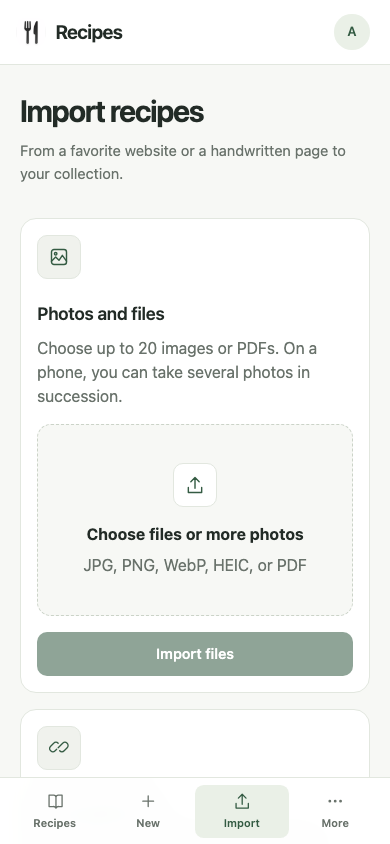
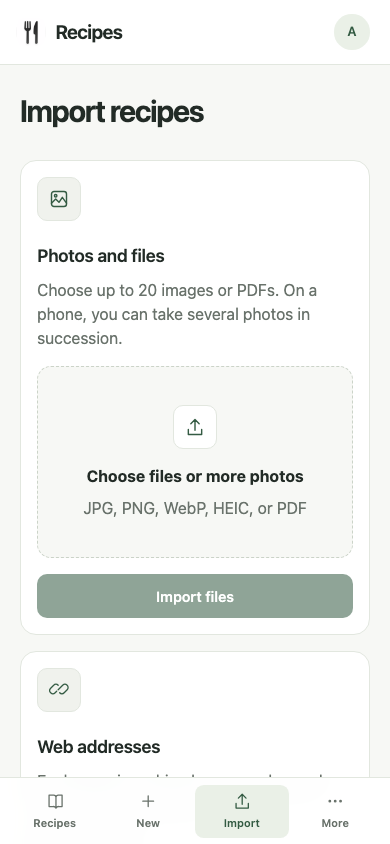
Remove page subtitles and compact recipe favorite controls

diff --git a/app/static/css/app.css b/app/static/css/app.css
@@ -74,7 +74,6 @@ hr { border: 0; border-top: 1px solid var(--line); }
 
 /* Shared visual language */
 .ui-icon { display: inline-block; width: 1.25rem; height: 1.25rem; flex: 0 0 auto; vertical-align: middle; }
-.page-intro { max-width: 54ch; margin: .65rem 0 0; color: var(--muted); font-size: .92rem; line-height: 1.6; }
 .page-heading > div { min-width: 0; }
 .results-summary { margin: 0 0 var(--space-4); color: var(--muted); font-size: .76rem; }
 .recipe-search__toolbar { display: flex; flex-wrap: wrap; align-items: center; justify-content: space-between; gap: var(--space-3); }
@@ -189,7 +188,7 @@ dialog::backdrop { background: rgb(0 0 0 / .4); backdrop-filter: blur(2px); }
 .login-card { box-shadow: var(--shadow-float); position: relative; width: min(100%, 26rem); padding: clamp(1.5rem, 6vw, 2.5rem); border: 1px solid var(--line); border-radius: var(--radius-lg); background: var(--surface); }
 .login-card__intro { margin: var(--space-7) 0 var(--space-6); }
 .login-card h1 { font-size: clamp(1.6rem, 6vw, 2.1rem); }
-.login-card__intro > p:last-child, .login-card__help { color: var(--muted); }
+.login-card__help { color: var(--muted); }
 .login-card__help { margin: var(--space-5) 0 0; font-size: .8rem; }
 .stack { display: grid; gap: var(--space-4); }
 
@@ -237,12 +236,14 @@ dialog::backdrop { background: rgb(0 0 0 / .4); backdrop-filter: blur(2px); }
 .recipe-kind-label--cooking { border-color: var(--cooking-line); background: var(--cooking-soft); color: var(--cooking); }
 .recipe-kind-label--baking { border-color: var(--baking-line); background: var(--baking-soft); color: var(--baking); }
 .recipe-card__kind { position: absolute; z-index: 2; top: .75rem; left: .75rem; box-shadow: none; }
-.favorite-toggle { position: absolute; top: .75rem; right: .75rem; z-index: 2; display: grid; width: 2.75rem; height: 2.75rem; place-items: center; padding: 0; border: 1px solid rgb(255 255 255 / .78); border-radius: 50%; background: rgb(255 255 255 / .92); color: #57534e; box-shadow: 0 2px 6px rgb(34 43 38 / .06); backdrop-filter: blur(8px); transition: color .15s ease, background-color .15s ease, border-color .15s ease, transform .15s ease; }
+.favorite-toggle { position: absolute; top: .75rem; right: .75rem; z-index: 2; display: grid; width: 2rem; height: 2rem; place-items: center; padding: 0; border: 1px solid rgb(255 255 255 / .78); border-radius: 50%; background: rgb(255 255 255 / .92); color: #57534e; box-shadow: 0 2px 6px rgb(34 43 38 / .06); backdrop-filter: blur(8px); transition: color .15s ease, background-color .15s ease, border-color .15s ease, transform .15s ease; }
+/* Keep a 44px hit area around the compact 32px favorite control. */
+.favorite-toggle::after { content: ""; position: absolute; inset: -.375rem; border-radius: 50%; }
 .favorite-toggle:hover { border-color: white; background: white; color: var(--ink); transform: translateY(-1px); }
 .favorite-toggle:disabled { cursor: wait; opacity: .72; }
 .favorite-toggle[aria-pressed="true"] { border-color: var(--cooking-line); background: var(--accent-soft); color: var(--accent); }
 .favorite-toggle[aria-pressed="true"]:hover { border-color: var(--accent); background: var(--accent-soft); color: var(--accent); }
-.favorite-toggle svg { width: 1.3rem; height: 1.3rem; fill: transparent; stroke: currentColor; stroke-linecap: round; stroke-linejoin: round; stroke-width: 1.8; transition: fill .15s ease, transform .15s ease; }
+.favorite-toggle svg { width: 1rem; height: 1rem; fill: transparent; stroke: currentColor; stroke-linecap: round; stroke-linejoin: round; stroke-width: 1.8; transition: fill .15s ease, transform .15s ease; }
 .favorite-toggle[aria-pressed="true"] svg { fill: currentColor; }
 .favorite-toggle:not(:disabled):active svg { transform: scale(.9); }
 .image-placeholder { display: grid; width: 100%; height: 100%; place-items: center; align-content: center; gap: .45rem; color: var(--muted); font-size: .75rem; }

diff --git a/app/templates/categories.html b/app/templates/categories.html
@@ -1,5 +1,5 @@
 {% extends "base.html" %}{% set page_title = t('categories.title') ~ ' · ' ~ t('recipes.title') %}{% block page_id %}categories{% endblock %}
-{% block content %}<section class="page-heading page-heading--with-action"><div><h1>{{ t('categories.title') }}</h1><p class="page-intro">{{ t("design.categories_intro") }}</p></div><button class="button button--primary" type="button" data-new-category>{{ t('categories.new') }}</button></section>
+{% block content %}<section class="page-heading page-heading--with-action"><div><h1>{{ t('categories.title') }}</h1></div><button class="button button--primary" type="button" data-new-category>{{ t('categories.new') }}</button></section>
 <div class="category-manager" data-category-manager><aside class="category-tree-panel"><label class="field"><span>{{ t('recipes.search_categories') }}</span><input type="search" data-category-filter placeholder="{{ t('categories.search_placeholder') }}"></label><div class="category-tree" data-category-tree role="tree">{% for category in categories %}<button type="button" role="treeitem" aria-level="{{ category.path.split(' › ')|length }}" class="category-node depth-{{ [category.path.split(' › ')|length - 1, 5]|min }}" data-category-id="{{ category.id }}" data-parent-id="{{ category.parent_id or '' }}" data-name="{{ category.name }}" data-path="{{ category.path }}" data-position="{{ category.position }}" data-origin="{{ category.origin }}" data-usage="{{ category.recipe_links|length }}" data-children="{{ category.children|length }}"><span>{{ category.name }}<span class="sr-only"> – {{ t('categories.path', path=category.path) }}</span></span><small>{{ category.recipe_links|length }} {{ tp('recipe.one', 'recipe.other', category.recipe_links|length) }}</small></button>{% else %}<div class="empty-inline" data-category-empty>{{ t('categories.empty') }}</div>{% endfor %}</div></aside>
 <section class="category-detail-panel" data-category-detail><div class="empty-state empty-state--compact"><div class="empty-state__mark" aria-hidden="true">{{ icon("folder") }}</div><h2>{{ t('categories.select_title') }}</h2><p>{{ t('categories.select_text') }}</p></div></section></div>
 <dialog data-category-dialog aria-labelledby="category-dialog-title"><form class="dialog-card" data-category-form><div class="dialog-card__header"><h2 id="category-dialog-title">{{ t('categories.create') }}</h2><button class="icon-button" type="button" data-dialog-close aria-label="{{ t('common.close') }}">×</button></div><input type="hidden" name="category_id"><div class="field"><label for="category-name">{{ t('common.name') }}</label><input id="category-name" name="name" maxlength="200" required></div><div class="field"><label for="category-parent">{{ t('categories.parent') }}</label><select id="category-parent" name="parent_id"><option value="">{{ t('categories.root') }}</option>{% for category in categories %}<option value="{{ category.id }}">{{ category.path }}</option>{% endfor %}</select></div><div class="dialog-actions"><button class="button button--secondary" type="button" data-dialog-close>{{ t('common.cancel') }}</button><button class="button button--primary" type="submit">{{ t('common.save') }}</button></div></form></dialog>

diff --git a/app/templates/settings/index.html b/app/templates/settings/index.html
@@ -1,5 +1,5 @@
 {% extends "base.html" %}{% set page_title = t('settings.title') ~ ' · ' ~ t('recipes.title') %}{% block page_id %}settings{% endblock %}
-{% block content %}<section class="page-heading"><h1>{{ t('settings.title') }}</h1><p class="page-intro">{{ t("design.settings_intro") }}</p></section>
+{% block content %}<section class="page-heading"><h1>{{ t('settings.title') }}</h1></section>
 <section class="settings-section" aria-labelledby="system-title"><div class="section-heading"><h2 id="system-title">{{ t('settings.system') }}</h2><button class="button button--secondary button--small" type="button" data-refresh-summary>{{ t('common.refresh') }}</button></div><dl class="system-summary" data-system-summary><div><dt>{{ t('settings.application') }}</dt><dd>{{ t('common.version') }} <span data-application-version>{{ app_version }}</span></dd></div><div><dt>{{ t('settings.database') }}</dt><dd data-database-schema>–</dd></div><div><dt>{{ t('settings.users') }}</dt><dd data-count-users>–</dd></div><div><dt>{{ t('recipes.title') }}</dt><dd data-count-recipes>–</dd></div><div><dt>{{ t('settings.comments') }}</dt><dd data-count-comments>–</dd></div><div><dt>{{ t('categories.title') }}</dt><dd data-count-categories>–</dd></div><div><dt>{{ t('settings.files') }}</dt><dd data-count-files>–</dd></div><div><dt>{{ t('settings.storage') }}</dt><dd data-storage-total>–</dd></div></dl></section>
 <section class="settings-section" aria-labelledby="backup-title"><div class="section-heading"><div><h2 id="backup-title">{{ t('settings.backup_title') }}</h2><p>{{ t('settings.backup_text') }}</p></div><button class="button button--primary" type="button" data-create-backup>{{ t('settings.create_backup') }}</button></div><div class="job-history" data-backup-jobs>{% for job in jobs %}<article class="history-card" data-maintenance-job="{{ job.id }}" data-operation="{{ job.operation }}" data-status="{{ job.status }}"><div><span class="status-badge">{{ ui_text(job.current_stage) }}</span><h3>{{ t('settings.backup') if job.operation == 'export' else t('settings.restore') }}</h3><time datetime="{{ job.created_at.isoformat() }}">{{ job.created_at|datetime_de }}</time></div><progress max="100" value="{{ job.progress }}" aria-label="{{ t('settings.progress', operation=t('settings.backup') if job.operation == 'export' else t('settings.restore')) }}">{{ job.progress }}%</progress>{% if job.error_message %}<p class="alert alert--error">{{ ui_text(job.error_message, 'error.generic') }}</p>{% endif %}{% if job.operation == 'export' and job.status == 'completed' %}<a class="button button--secondary button--small" href="/api/v1/settings/backups/{{ job.id }}/download">{{ t('common.download') }}</a>{% endif %}</article>{% else %}<p class="empty-inline">{{ t('settings.no_jobs') }}</p>{% endfor %}</div></section>
 <section class="settings-section danger-zone" aria-labelledby="restore-title">

diff --git a/app/templates/imports/index.html b/app/templates/imports/index.html
@@ -1,5 +1,5 @@
 {% extends "base.html" %}{% set page_title = t('import.title') ~ ' · ' ~ t('recipes.title') %}{% block page_id %}imports{% endblock %}
-{% block content %}<section class="page-heading"><h1>{{ t('import.title') }}</h1><p class="page-intro">{{ t("design.import_intro") }}</p></section>
+{% block content %}<section class="page-heading"><h1>{{ t('import.title') }}</h1></section>
 <div class="import-grid">
   <section class="import-card"><div class="import-card__number">{{ icon("image") }}</div><h2>{{ t('import.files_title') }}</h2><p>{{ t('import.files_text') }}</p><form data-file-import><label class="upload-zone" for="import-files"><span class="upload-zone__icon">{{ icon("upload") }}</span><strong>{{ t('import.choose_files') }}</strong><span>{{ t('import.file_formats') }}</span><input id="import-files" name="files" type="file" accept="image/*,.heic,application/pdf" multiple></label><div class="file-selection" data-file-selection aria-live="polite" hidden></div><p class="alert alert--warning" data-file-selection-message role="status" hidden></p><progress max="100" value="0" data-upload-progress aria-label="{{ t('import.upload_progress') }}" hidden>0%</progress><button class="button button--primary button--block" type="submit" disabled>{{ t('import.files_submit') }}</button></form></section>
   <section class="import-card"><div class="import-card__number">{{ icon("link") }}</div><h2>{{ t('import.urls_title') }}</h2><p>{{ t('import.urls_text') }}</p><form data-url-import><div class="field"><label class="import-card__url-label" for="import-urls">{{ t('import.urls_title') }}</label><textarea id="import-urls" rows="7" placeholder="{{ t('import.urls_placeholder') }}" required></textarea><p class="field-help">{{ t('import.urls_help') }}</p></div><button class="button button--primary button--block" type="submit">{{ t('import.urls_submit') }}</button></form></section>

diff --git a/app/templates/productivity/favorites.html b/app/templates/productivity/favorites.html
@@ -4,7 +4,7 @@
 {% set page_title = t('favorites.title') ~ ' · ' ~ t('recipes.title') %}
 {% block page_id %}favorites{% endblock %}
 {% block content %}
-<section class="page-heading page-heading--with-action"><div><h1>{{ t('favorites.title') }}</h1><p class="page-intro">{{ t("design.favorites_intro") }}</p></div><a class="button button--secondary" href="/rezepte">{{ t('favorites.all') }}</a></section>
+<section class="page-heading page-heading--with-action"><div><h1>{{ t('favorites.title') }}</h1></div><a class="button button--secondary" href="/rezepte">{{ t('favorites.all') }}</a></section>
 <nav class="recipe-kind-switch recipe-kind-switch--links" aria-label="{{ t('recipes.kind_filter') }}">
   {% for kind in ['all', 'cooking', 'baking'] %}
   <a class="recipe-kind-option recipe-kind-option--{{ kind }}" href="/favoriten{% if kind != 'all' %}?recipe_kind={{ kind }}{% endif %}" {% if (kind == 'all' and not selected_recipe_kind) or kind == selected_recipe_kind %}aria-current="page"{% endif %}>

diff --git a/app/templates/recipes/list.html b/app/templates/recipes/list.html
@@ -9,7 +9,6 @@
   <section class="page-heading page-heading--with-action recipe-search__heading">
     <div>
       <h1{% if not trash_mode|default(false) %} data-recipe-kind-heading{% endif %}>{{ t('recipes.trash_title') if trash_mode|default(false) else (t('recipes.kind.' ~ selected_recipe_kind) if selected_recipe_kind else t('recipes.title')) }}</h1>
-      {% if not trash_mode|default(false) %}<p class="page-intro">{{ t("design.recipes_intro") }}</p>{% endif %}
     </div>
   </section>
   <div class="recipe-search__toolbar">

diff --git a/app/templates/login.html b/app/templates/login.html
@@ -19,7 +19,6 @@
       <div class="brand brand--large"><img class="brand__mark" src="{{ asset('pwa/icon-192.png') }}" alt="" width="192" height="192"><span>{{ t("app.name") }}</span></div>
       <div class="login-card__intro">
         <h1 id="login-title">{{ t("login.welcome") }}</h1>
-        <p>{{ t("login.intro") }}</p>
       </div>
       {% if error %}
       <div class="alert alert--error" role="alert">{{ error }}</div>

diff --git a/app/templates/account/index.html b/app/templates/account/index.html
@@ -3,7 +3,7 @@
 {% block page_id %}account{% endblock %}
 {% block content %}
 <section class="page-heading">
-  <h1>{{ t("account.title") }}</h1><p class="page-intro">{{ t("design.account_intro") }}</p>
+  <h1>{{ t("account.title") }}</h1>
 </section>
 {% if request.query_params.get('saved') == '1' %}
 <div class="alert alert--success" role="status">{{ t("account.saved") }}</div>

diff --git a/app/templates/productivity/tags.html b/app/templates/productivity/tags.html
@@ -3,7 +3,7 @@
 {% block page_id %}tags{% endblock %}
 {% block content %}
 <section class="page-heading">
-  <h1>{{ t('tags.title') }}</h1><p class="page-intro">{{ t("design.tags_intro") }}</p>
+  <h1>{{ t('tags.title') }}</h1>
 </section>
 
 <div class="productivity-layout productivity-layout--two">

diff --git a/app/templates/notes/index.html b/app/templates/notes/index.html
@@ -4,7 +4,7 @@
 {% block page_id %}notes{% endblock %}
 {% block content %}
 <section class="page-heading notes-heading">
-  <h1>{{ t('notes.title') }}</h1><p class="page-intro">{{ t("notes.description") }}</p>
+  <h1>{{ t('notes.title') }}</h1>
 </section>
 
 <div class="notes-layout">

diff --git a/app/i18n.py b/app/i18n.py
@@ -127,7 +127,6 @@ MESSAGES: Final[dict[Locale, dict[str, str]]] = {
         "account.invalid_language": "The selected language is not supported.",
         "login.title": "Sign in",
         "login.welcome": "Welcome back",
-        "login.intro": "Sign in to open your shared recipes.",
         "login.email": "Email address",
         "login.password": "Password",
         "login.submit": "Sign in",
@@ -286,7 +285,6 @@ MESSAGES: Final[dict[Locale, dict[str, str]]] = {
         "account.invalid_language": "Die ausgewählte Sprache wird nicht unterstützt.",
         "login.title": "Anmelden",
         "login.welcome": "Willkommen zurück",
-        "login.intro": "Melde dich an, um eure gemeinsamen Rezepte zu öffnen.",
         "login.email": "E-Mail-Adresse",
         "login.password": "Passwort",
         "login.submit": "Anmelden",
@@ -445,7 +443,6 @@ MESSAGES: Final[dict[Locale, dict[str, str]]] = {
         "account.invalid_language": "不支持所选语言。",
         "login.title": "登录",
         "login.welcome": "欢迎回来",
-        "login.intro": "登录以打开共享食谱。",
         "login.email": "电子邮箱",
         "login.password": "密码",
         "login.submit": "登录",
@@ -604,7 +601,6 @@ MESSAGES: Final[dict[Locale, dict[str, str]]] = {
         "account.invalid_language": "चुनी गई भाषा समर्थित नहीं है।",
         "login.title": "साइन इन",
         "login.welcome": "वापसी पर स्वागत है",
-        "login.intro": "अपनी साझा रेसिपी खोलने के लिए साइन इन करें।",
         "login.email": "ईमेल पता",
         "login.password": "पासवर्ड",
         "login.submit": "साइन इन",
@@ -763,7 +759,6 @@ MESSAGES: Final[dict[Locale, dict[str, str]]] = {
         "account.invalid_language": "El idioma seleccionado no es compatible.",
         "login.title": "Iniciar sesión",
         "login.welcome": "Te damos la bienvenida",
-        "login.intro": "Inicia sesión para abrir las recetas compartidas.",
         "login.email": "Correo electrónico",
         "login.password": "Contraseña",
         "login.submit": "Iniciar sesión",
@@ -891,55 +886,6 @@ MESSAGES: Final[dict[Locale, dict[str, str]]] = {
 # supported locales obvious during review. The order is English, German,
 # Simplified Chinese, Hindi, Spanish.
 _UI_MESSAGE_ROWS: Final[dict[str, tuple[str, str, str, str, str]]] = {
-    "design.recipes_intro": (
-        "Good food starts here. Find something you’ll love to make.",
-        "Gutes Essen beginnt hier. Finde etwas, das du gerne kochst.",
-        "美味从这里开始，发现你想做的菜。",
-        "अच्छे खाने की शुरुआत यहाँ से। कुछ ऐसा चुनें जो बनाना आपको पसंद हो।",
-        "La buena comida empieza aquí. Encuentra algo que te apetezca preparar.",
-    ),
-    "design.favorites_intro": (
-        "The recipes you come back to, all in one place.",
-        "Deine liebsten Rezepte, alle an einem Ort.",
-        "常做的拿手菜，都在这里。",
-        "आपकी बार-बार पसंद आने वाली रेसिपी, एक ही जगह।",
-        "Las recetas a las que siempre vuelves, en un solo lugar.",
-    ),
-    "design.categories_intro": (
-        "A little order for everything you love to cook.",
-        "Ein bisschen Ordnung für alles, was du gerne kochst.",
-        "为爱做的菜分门别类。",
-        "आप जो पकाना पसंद करते हैं, उसे व्यवस्थित रखें।",
-        "Un poco de orden para todo lo que te gusta cocinar.",
-    ),
-    "design.tags_intro": (
-        "Make your collection easier to explore and search.",
-        "Mach deine Sammlung leichter durchsuchbar.",
-        "让收藏更容易浏览和搜索。",
-        "अपने संग्रह को खोजना और देखना आसान बनाएँ।",
-        "Haz que tu colección sea más fácil de explorar y buscar.",
-    ),
-    "design.import_intro": (
-        "From a favorite website or a handwritten page to your collection.",
-        "Von deiner Lieblingswebsite oder einer handgeschriebenen Seite in deine Sammlung.",
-        "将喜爱的网站或手写食谱收入收藏。",
-        "अपनी पसंदीदा वेबसाइट या हस्तलिखित पन्ने से अपने संग्रह में जोड़ें।",
-        "De tu web favorita o una página escrita a mano a tu colección.",
-    ),
-    "design.account_intro": (
-        "Make yourself at home. Choose your preferences.",
-        "Fühl dich wie zu Hause. Wähle deine Einstellungen.",
-        "按你的喜好设置。",
-        "इसे अपना बनाएँ। अपनी प्राथमिकताएँ चुनें।",
-        "Siéntete como en casa. Elige tus preferencias.",
-    ),
-    "design.settings_intro": (
-        "Keep your shared kitchen running smoothly.",
-        "Damit eure gemeinsame Küche rundläuft.",
-        "让共享厨房顺畅运行。",
-        "अपनी साझा रसोई को सुचारु रूप से चलाएँ।",
-        "Mantén tu cocina compartida en buen estado.",
-    ),
     "a11y.breadcrumb": (
         "Breadcrumb navigation",
         "Brotkrümelnavigation",
